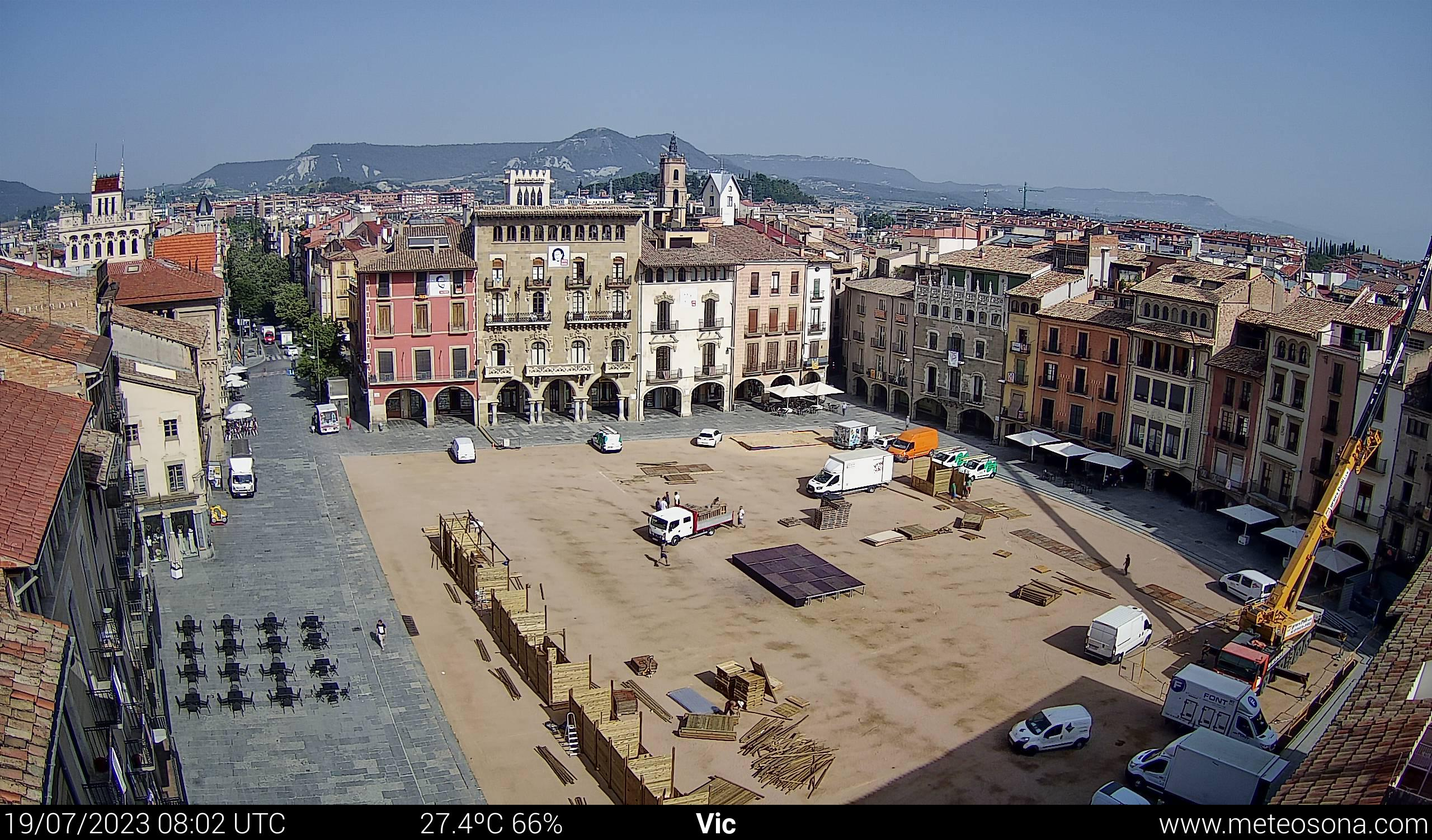
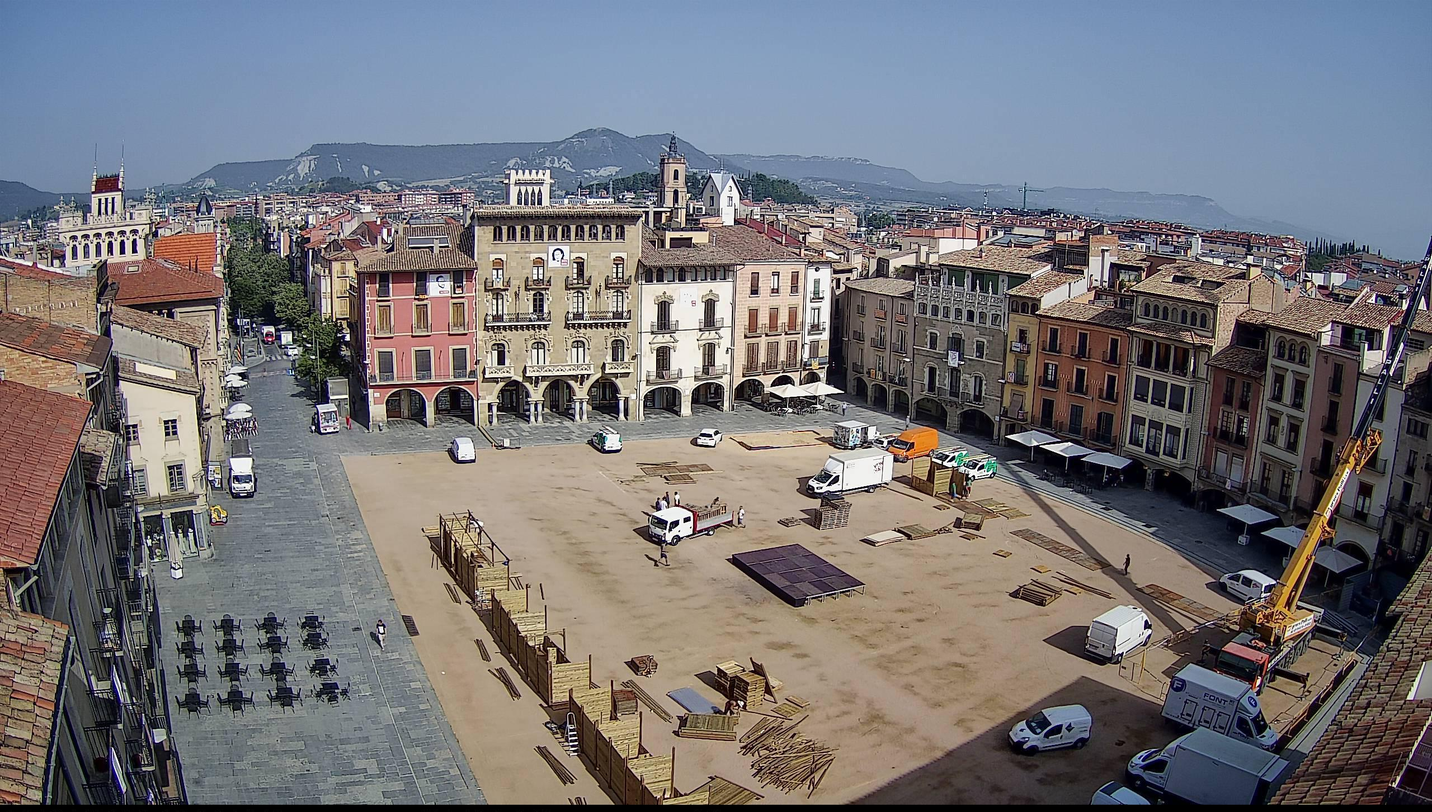
add crop

diff --git a/download.py b/download.py
@@ -1,7 +1,7 @@
 import os
 import datetime
 import requests
-import subprocess
+from PIL import Image
 
 
 def downloadAndSaveImage(url: str, save_path: str) -> None:
@@ -12,6 +12,17 @@ def downloadAndSaveImage(url: str, save_path: str) -> None:
             f.write(response.content)
     except requests.exceptions.RequestException as e:
         print(f"Error en descargar l'imatge: {e}")
+
+
+def cropImage(file_path: str, crop_size: int = 50) -> None:
+    img = Image.open(file_path)
+
+    width, height = img.size
+
+    coordenadas_recorte = (0, 0, width, height - crop_size)
+
+    img.crop(coordenadas_recorte).save(file_path)
+
 
 if __name__ == "__main__":
     print('Start script')
@@ -37,3 +48,4 @@ if __name__ == "__main__":
         save_path = os.path.join(f"{images_directory_target}", file_name)
 
         downloadAndSaveImage(targets[key], save_path)
+        cropImage(save_path)
